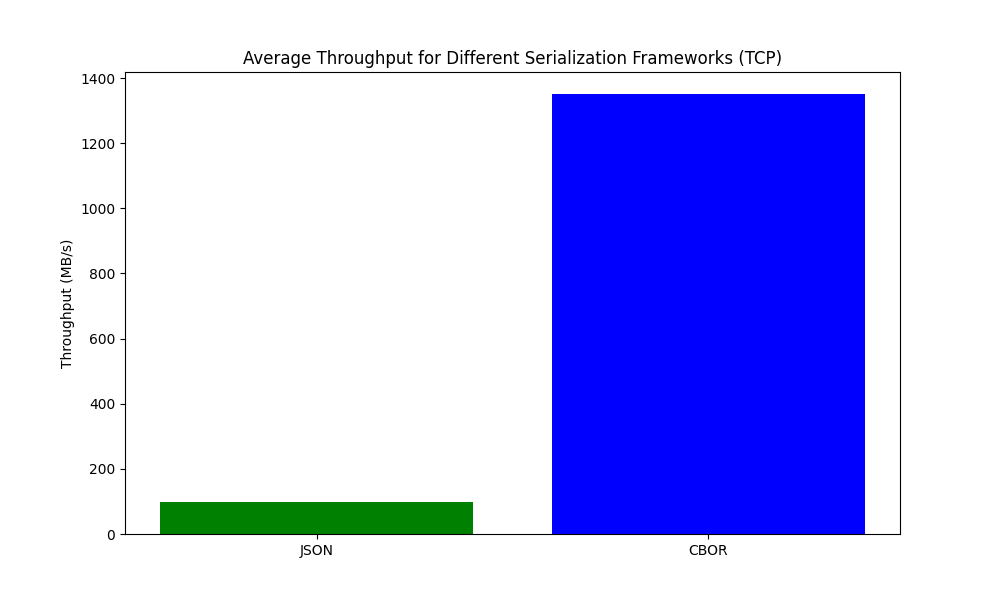
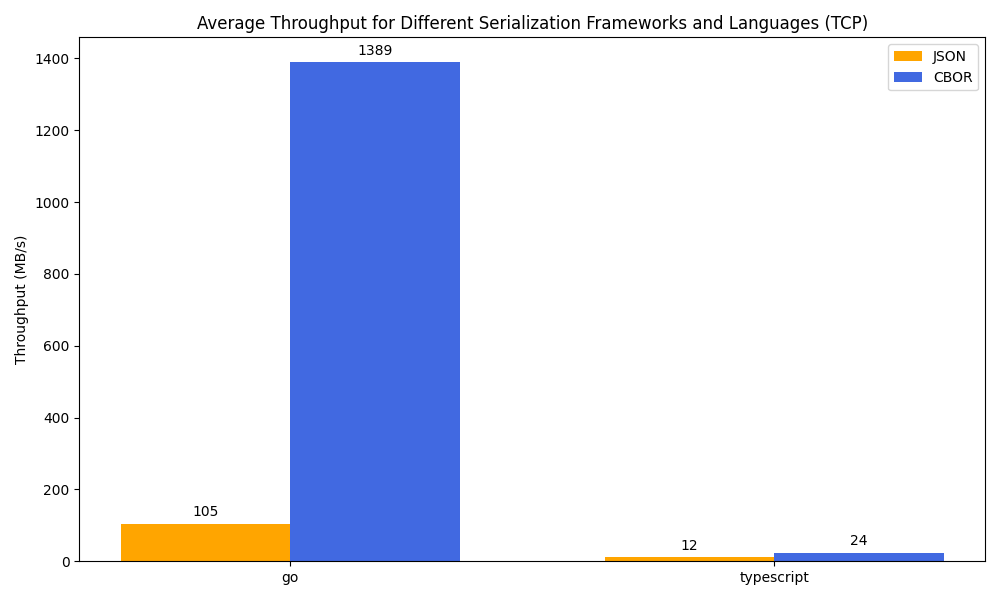
feat: Add multi-language support for throughput graph and throughput table renderer

diff --git a/docs/render-bench-graph-throughput.py b/docs/render-bench-graph-throughput.py
@@ -1,0 +1,55 @@
+import pandas as pd
+import matplotlib.pyplot as plt
+import numpy as np
+
+def load_and_average_throughput_by_language(file_path):
+    data = pd.read_csv(file_path)
+    data['throughput'] = data['throughput'].str.replace(' MB/s', '').astype(float)
+
+    avg_throughput_by_lang = data.groupby('language')['throughput'].mean().round().reset_index()
+    return avg_throughput_by_lang
+
+def plot_throughput_chart(json_data, cbor_data, output_path):
+    labels = json_data['language'].unique()
+    x = np.arange(len(labels))
+    width = 0.35
+
+    fig, ax = plt.subplots(figsize=(10, 6))
+    rects1 = ax.bar(x - width/2, json_data['throughput'], width, label='JSON', color='orange')
+    rects2 = ax.bar(x + width/2, cbor_data['throughput'], width, label='CBOR', color='royalblue')
+
+    ax.set_ylabel('Throughput (MB/s)')
+    ax.set_title('Average Throughput for Different Serialization Frameworks and Languages (TCP)')
+    ax.set_xticks(x)
+    ax.set_xticklabels(labels)
+    ax.legend()
+
+    def autolabel(rects):
+        """Attach a text label above each bar in *rects*, displaying its height."""
+        for rect in rects:
+            height = rect.get_height()
+            ax.annotate('{}'.format(int(height)),  # Convert to integer for display
+                        xy=(rect.get_x() + rect.get_width() / 2, height),
+                        xytext=(0, 3),  # 3 points vertical offset
+                        textcoords="offset points",
+                        ha='center', va='bottom')
+
+    autolabel(rects1)
+    autolabel(rects2)
+
+    fig.tight_layout()
+
+    plt.savefig(output_path)
+
+if __name__ == '__main__':
+    json_file_path = 'out/throughput-json.csv'
+    cbor_file_path = 'out/throughput-cbor.csv'
+    output_file_path = 'docs/throughput.png'
+
+    json_data = load_and_average_throughput_by_language(json_file_path)
+    cbor_data = load_and_average_throughput_by_language(cbor_file_path)
+
+    json_data = json_data.sort_values(by='language').reset_index(drop=True)
+    cbor_data = cbor_data.sort_values(by='language').reset_index(drop=True)
+
+    plot_throughput_chart(json_data, cbor_data, output_file_path)

diff --git a/docs/render-bench-table-throughput.py b/docs/render-bench-table-throughput.py
@@ -1,17 +1,23 @@
 import pandas as pd
 
-def read_throughput_data(file_path):
+def read_throughput_data(file_path, serializer):
     data = pd.read_csv(file_path)
     data['throughput'] = data['throughput'].str.replace(' MB/s', '').astype(int)
-    return data['throughput'].mean()
+    avg_throughput = data.groupby('language')['throughput'].mean().reset_index()
+    avg_throughput['serializer'] = serializer
+    return avg_throughput
 
 json_file_path = 'out/throughput-json.csv'
 cbor_file_path = 'out/throughput-cbor.csv'
 
-json_avg_throughput = read_throughput_data(json_file_path)
-cbor_avg_throughput = read_throughput_data(cbor_file_path)
+json_avg_throughput = read_throughput_data(json_file_path, 'JSON')
+cbor_avg_throughput = read_throughput_data(cbor_file_path, 'CBOR')
+
+combined_avg_throughput = pd.concat([json_avg_throughput, cbor_avg_throughput])
+combined_avg_throughput = combined_avg_throughput.sort_values(by=['language', 'serializer'])
 
 print("| Serializer | Average Throughput |")
-print("|-----------|--------------------|")
-print(f"| JSON      | {round(json_avg_throughput)} MB/s |")
-print(f"| CBOR      | {round(cbor_avg_throughput)} MB/s |")
+print("|------------|--------------------|")
+
+for index, row in combined_avg_throughput.iterrows():
+    print(f"| {row['serializer']} ({row['language']}) | {round(row['throughput'])} MB/s |")

diff --git a/README.md b/README.md
@@ -486,10 +486,12 @@ To reproduce the tests, see the [benchmark source code](./cmd/) and the [visuali
 
 <img src="./docs/throughput.png" alt="Bar chart of the throughput benchmark results for JSON and CBOR" width="550px">
 
-| Serializer | Average Throughput |
-| ---------- | ------------------ |
-| JSON       | 98 MB/s            |
-| CBOR       | 1351 MB/s          |
+| Serializer        | Average Throughput |
+| ----------------- | ------------------ |
+| CBOR (go)         | 1389 MB/s          |
+| JSON (go)         | 105 MB/s           |
+| CBOR (typescript) | 24 MB/s            |
+| JSON (typescript) | 12 MB/s            |
 
 ### Protocol
 
